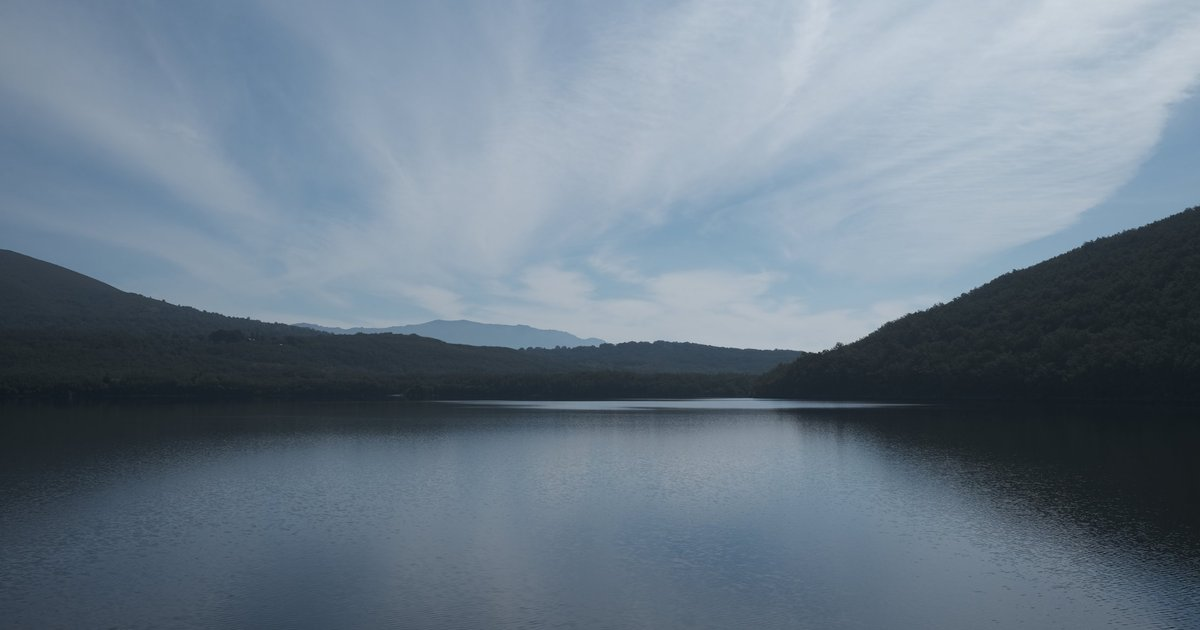
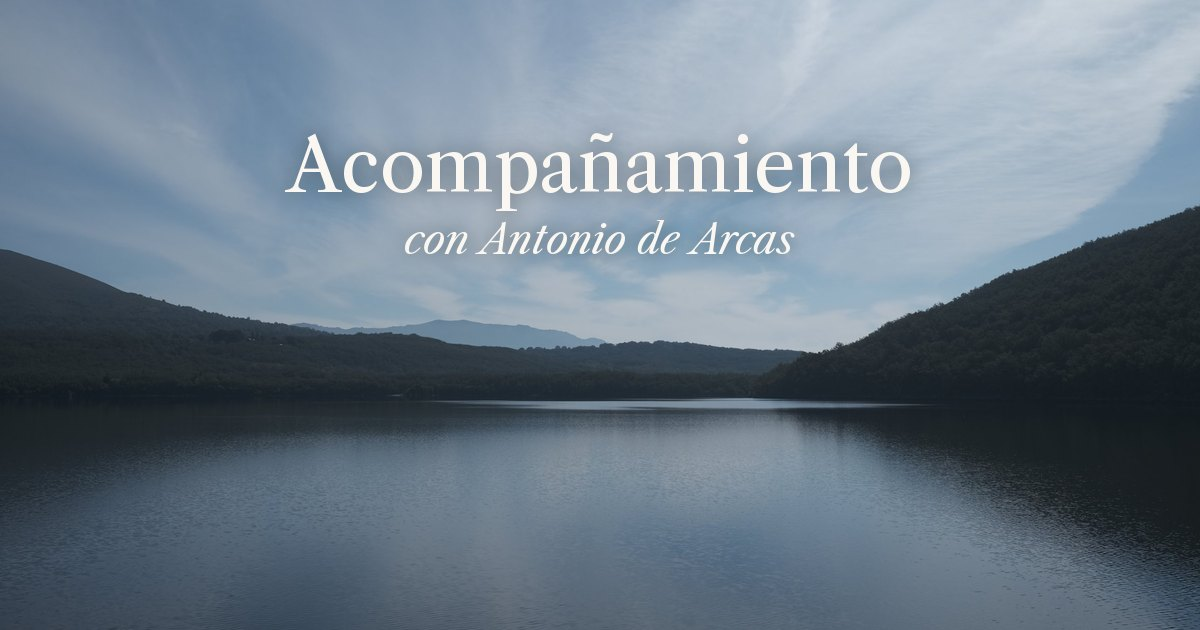
Sesión: titular en la imagen de vista previa
Claude-Session: https://claude.ai/code/session_01HXZ93aGCwBk24mJBi3Xr3P

Changed region(s): [[0.2467, 0.2111, 0.7708, 0.4222]]

diff --git a/sesion/index.html b/sesion/index.html
@@ -7,7 +7,7 @@
 <meta name="description" content="Reserva tu sesión de acompañamiento con Antonio de Arcas: una hora por videollamada.">
 <meta name="robots" content="noindex">
 <meta property="og:type" content="website">
-<meta property="og:title" content="Sesión de acompañamiento · Antonio de Arcas">
+<meta property="og:title" content="Acompañamiento con Antonio de Arcas">
 <meta property="og:description" content="Elige el día y la hora de tu sesión: una hora por videollamada.">
 <meta property="og:url" content="https://antoniodearcas.com/sesion/">
 <meta property="og:image" content="https://antoniodearcas.com/assets/sesion.jpg">
